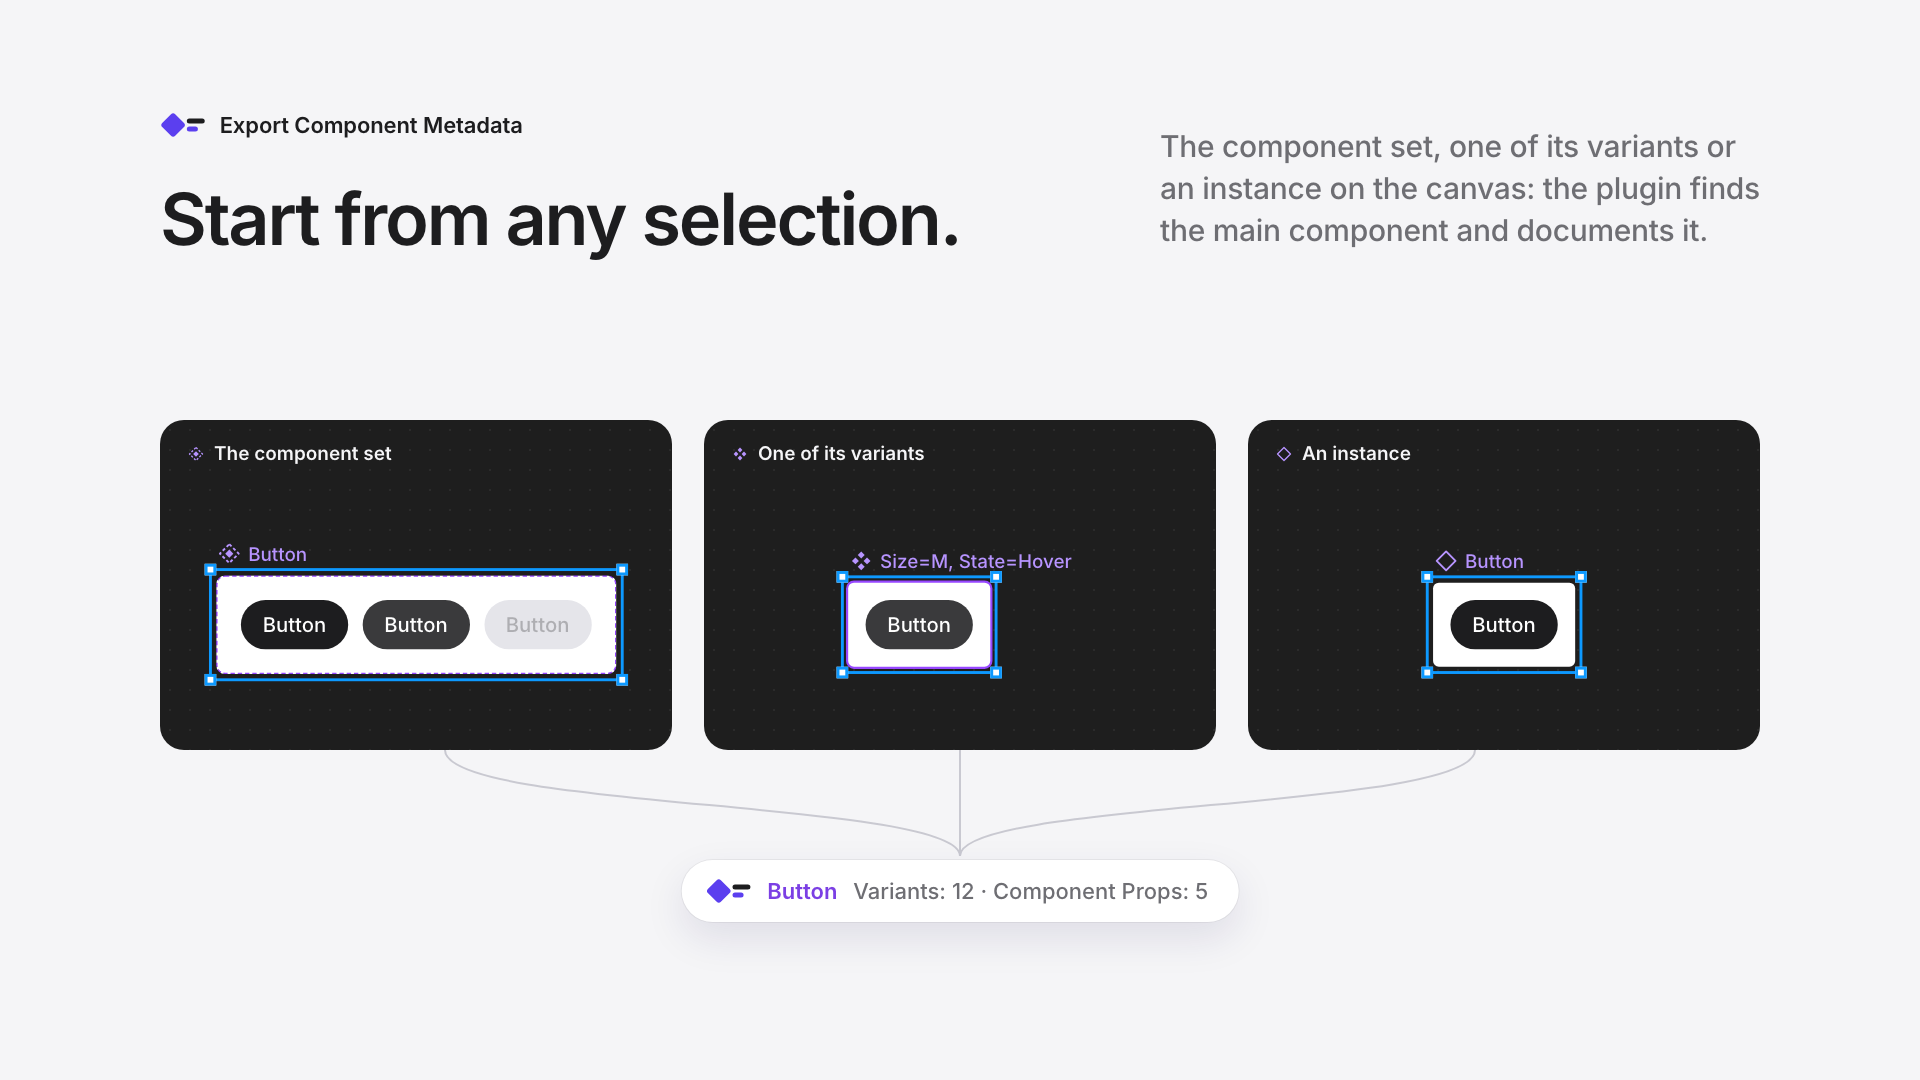
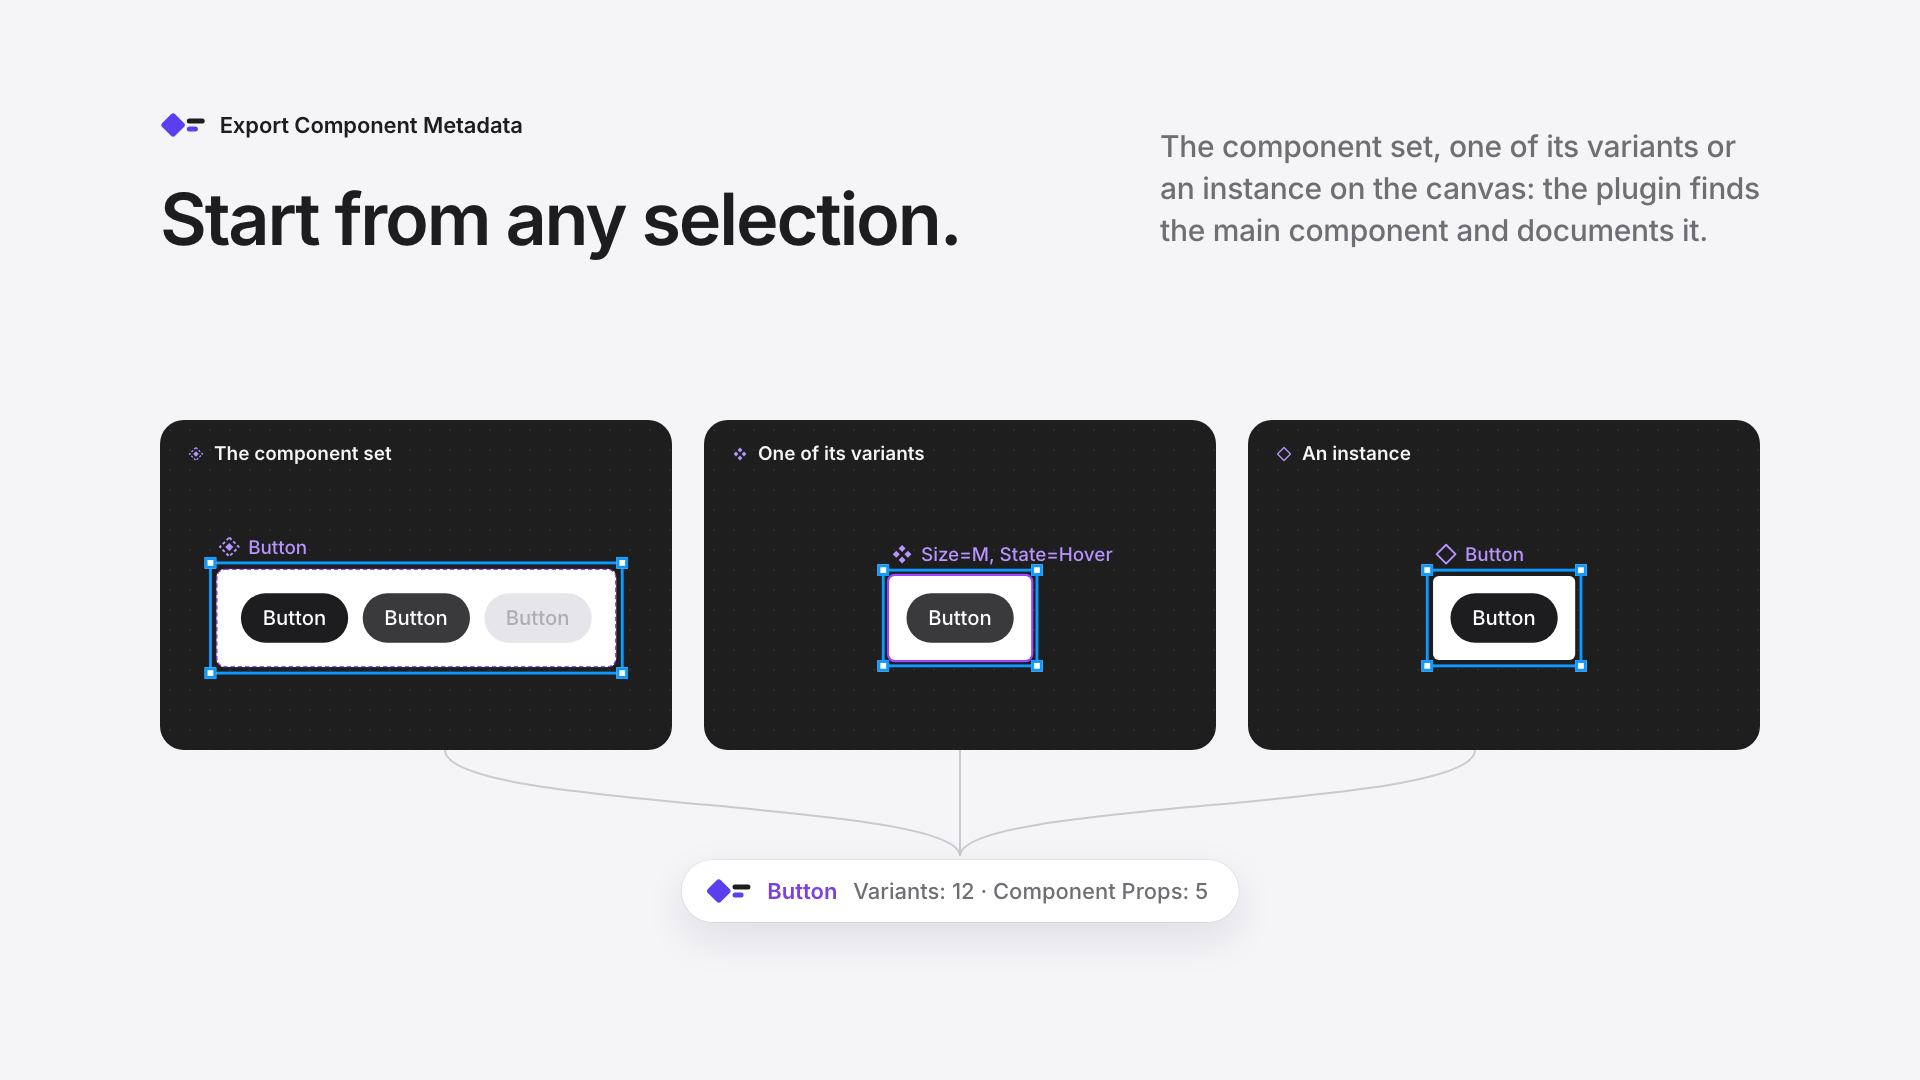
Centre the frames on the any-selection slide
The variant's label is wider than its frame, so it pushed the frame off
centre. Labels now hang above their frames without affecting layout, and
every frame sits in the middle of its tile.

Changed region(s): [[0.0938, 0.4889, 0.3438, 0.6417], [0.4375, 0.4889, 0.5625, 0.6417], [0.7188, 0.4889, 0.8438, 0.6417]]

diff --git a/docs/publishing/src/gallery-4-any-selection.html b/docs/publishing/src/gallery-4-any-selection.html
@@ -7,8 +7,9 @@ h1{font-size:72px}
   background-image:radial-gradient(rgba(255,255,255,.06) 1px,transparent 1px);background-size:20px 20px}
 .cap{position:absolute;left:28px;top:24px;display:flex;align-items:center;gap:10px;font:600 19px/1 Inter;color:#F5F5F7}
 .cap svg{color:#B794FF}
-.node{position:absolute;left:50%;top:57%;transform:translate(-50%,-50%) scale(1.45)}
-.lbl{display:flex;align-items:center;gap:5px;font:500 13px/1 Inter;color:#B794FF;margin:0 0 7px 1px}
+/* Only the frame sets the node's size, so every frame sits in the centre of its tile; the label hangs above it like in Figma */
+.node{position:absolute;left:50%;top:60%;transform:translate(-50%,-50%) scale(1.45)}
+.lbl{position:absolute;left:1px;bottom:100%;margin-bottom:7px;display:flex;align-items:center;gap:5px;font:500 13px/1 Inter;color:#B794FF;white-space:nowrap}
 .set{display:flex;gap:10px;padding:16px;background:#fff;border:1.5px dashed #9747FF;border-radius:6px}
 .solo{display:inline-block;padding:12px;background:#fff;border-radius:4px}
 .solo.var{box-shadow:0 0 0 1.5px #9747FF}
